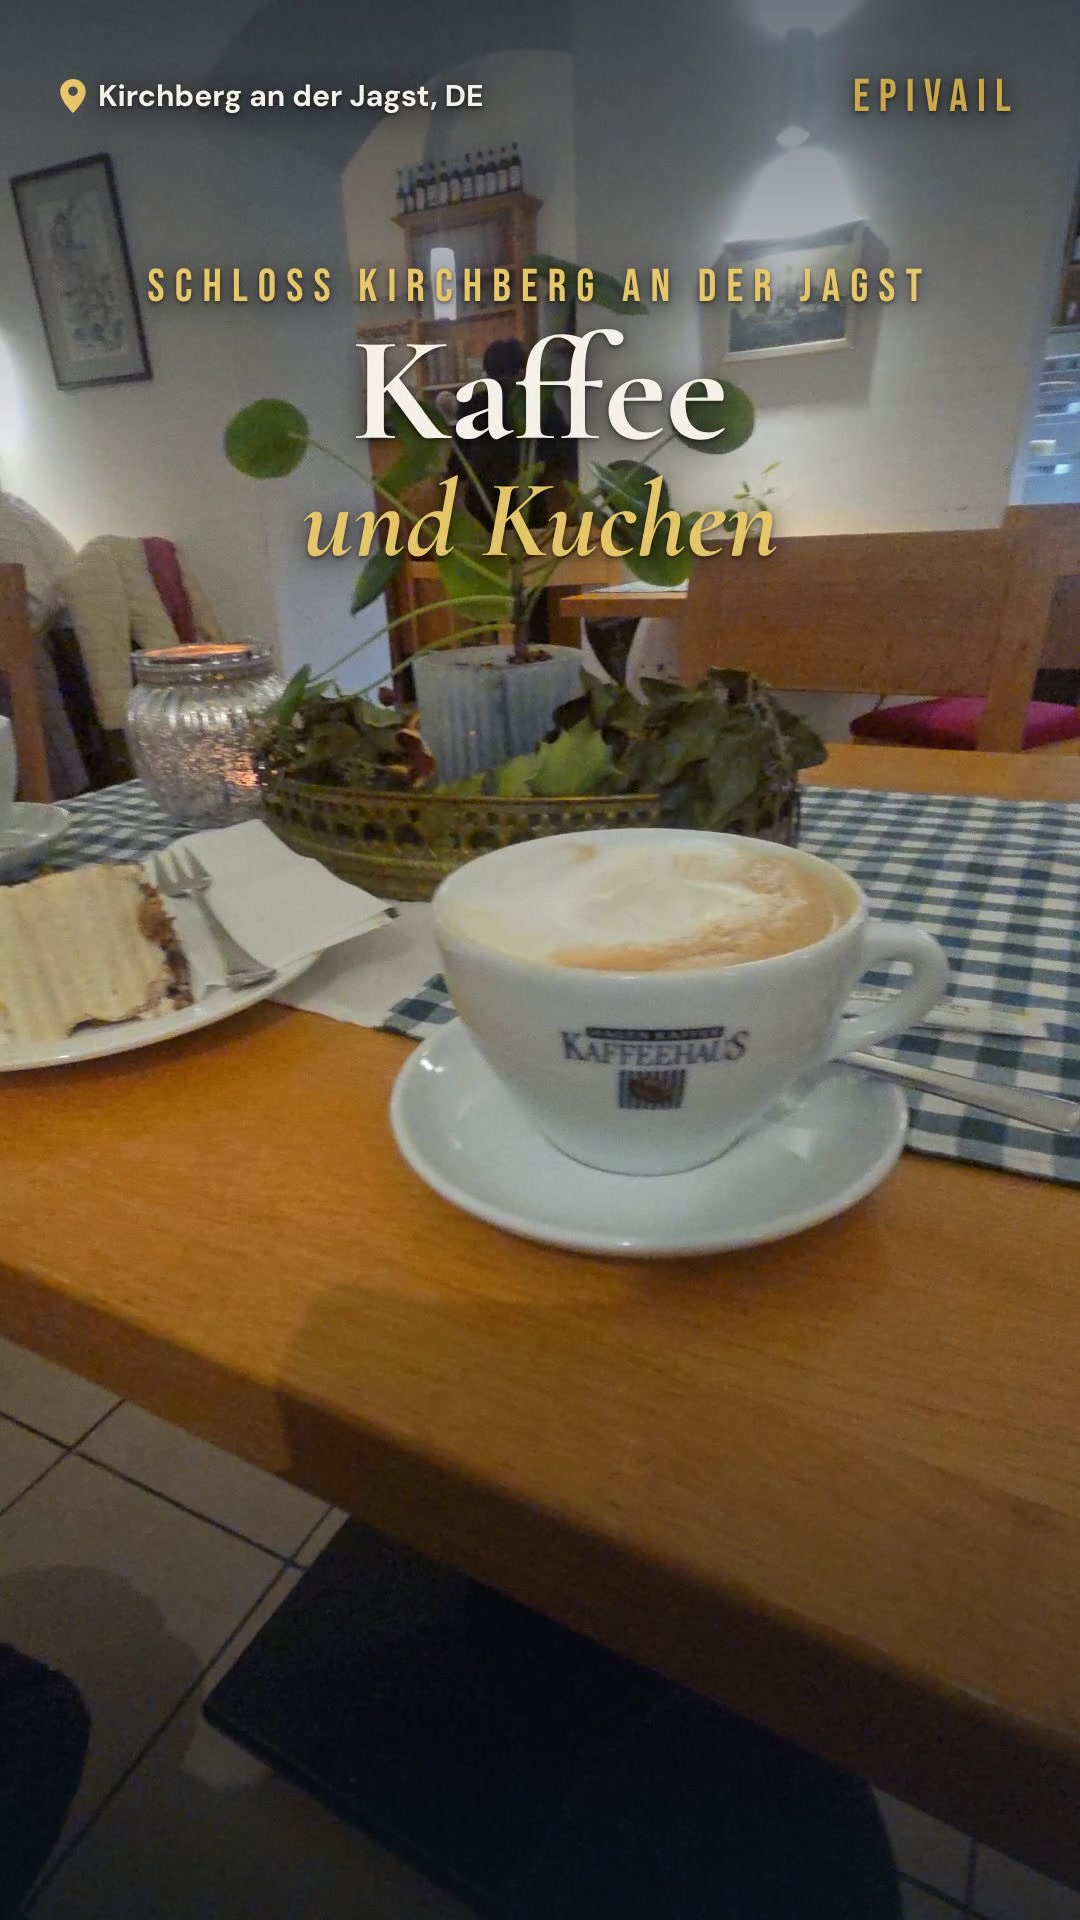
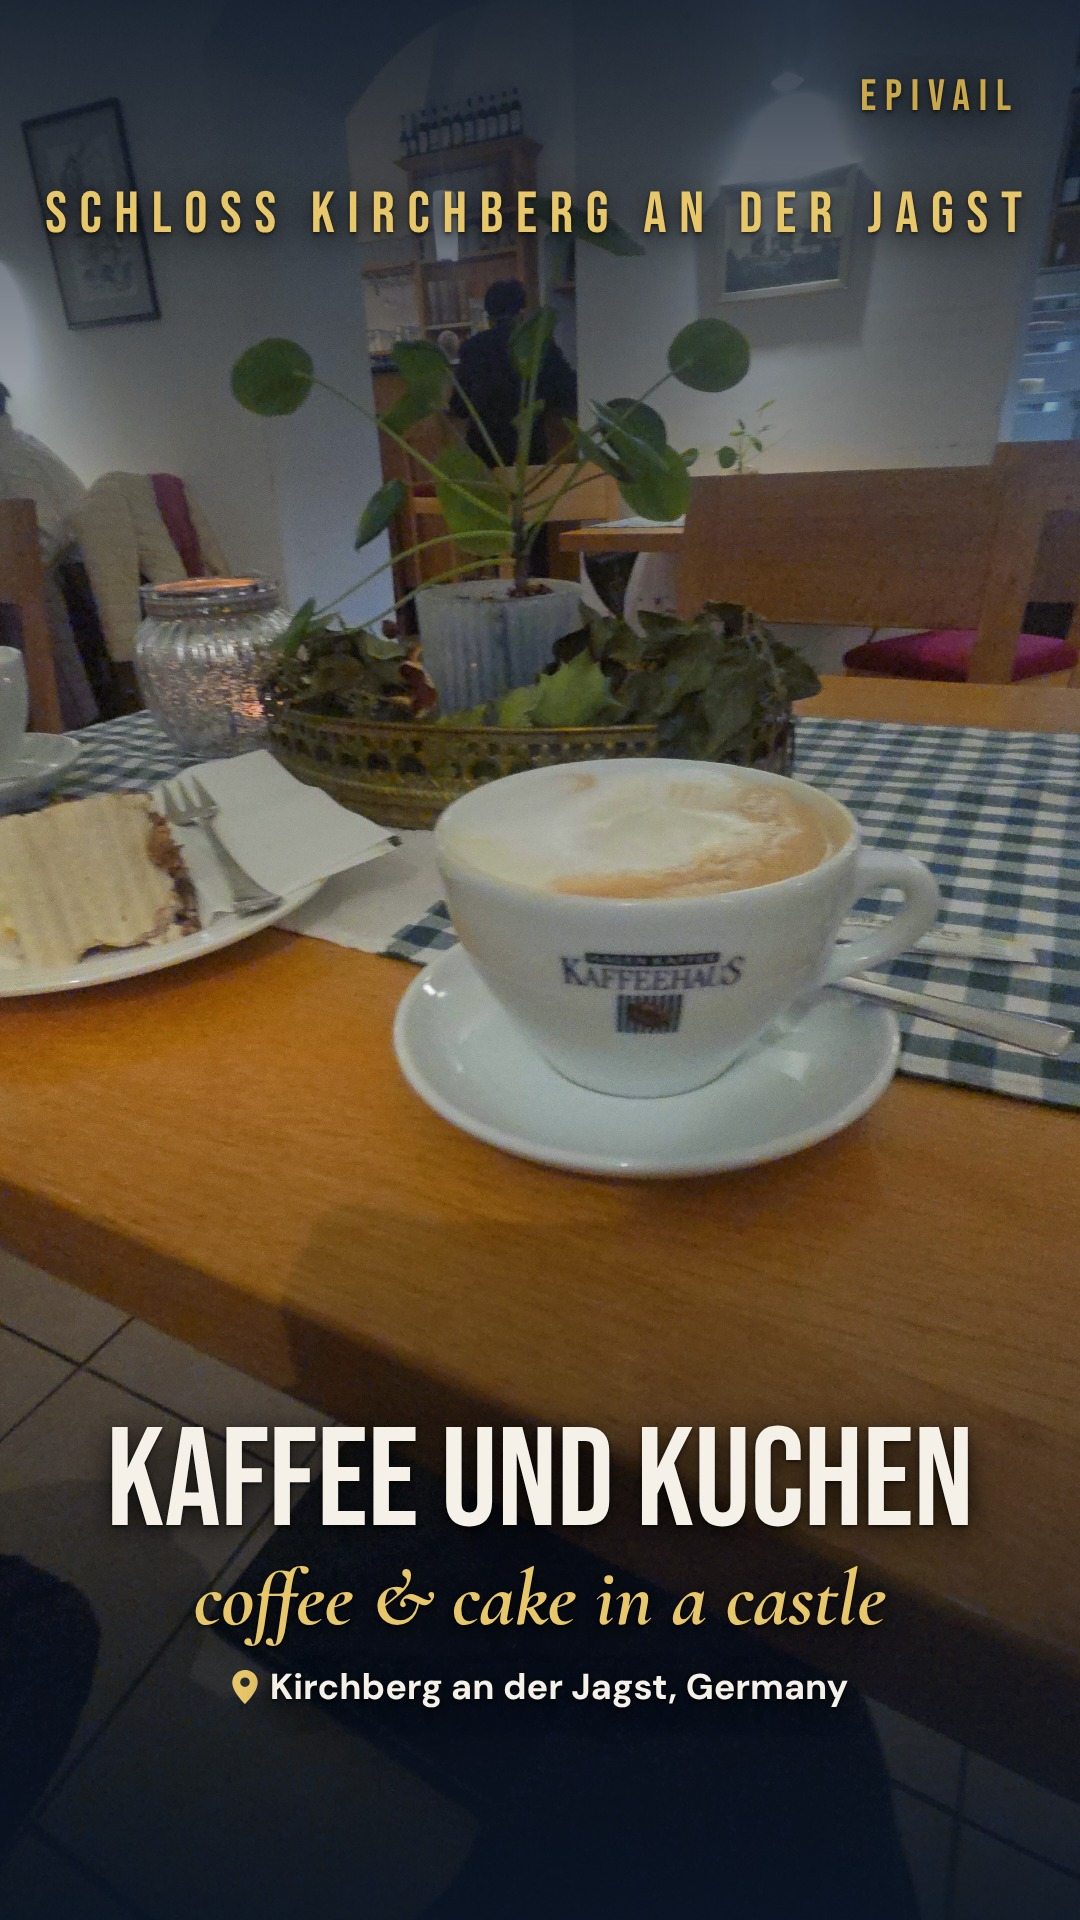
Kaffee und Kuchen: Lofty thumbnails (9:16 and square)
Claude-Session: https://claude.ai/code/session_016C3qjLvrpJC9E8jwkr3Co5

diff --git a/marketing/epivail/reels/kaffee-und-kuchen/Thumbnail.tsx b/marketing/epivail/reels/kaffee-und-kuchen/Thumbnail.tsx
@@ -1,0 +1,30 @@
+import React from 'react';
+import {AbsoluteFill, Composition, Img, registerRoot, staticFile} from 'remotion';
+import {loadFont as loadCormorant} from '@remotion/google-fonts/CormorantGaramond';
+import {loadFont as loadBebas} from '@remotion/google-fonts/BebasNeue';
+import {loadFont as loadDM} from '@remotion/google-fonts/DMSans';
+const displayI = loadCormorant('italic', {weights: ['700'], subsets: ['latin']}).fontFamily;
+const stamp = loadBebas('normal', {weights: ['400'], subsets: ['latin']}).fontFamily;
+const ui = loadDM('normal', {weights: ['700'], subsets: ['latin']}).fontFamily;
+const c = {gold: '#c9a84c', goldBright: '#e8c66a', cream: '#f5f0e8'};
+const sh = '0 6px 30px rgba(0,0,0,0.8), 0 2px 4px rgba(0,0,0,0.6)';
+const Pin = () => <svg width="26" height="34" viewBox="0 0 24 32"><path d="M12 0C5.4 0 0 5.2 0 11.7 0 20.5 12 32 12 32s12-11.5 12-20.3C24 5.2 18.6 0 12 0zm0 16a4.5 4.5 0 110-9 4.5 4.5 0 010 9z" fill={c.goldBright} /></svg>;
+const Thumb: React.FC<{square: boolean}> = ({square}) => (
+  <AbsoluteFill style={{background: '#0a1628'}}>
+    <Img src={staticFile('kaffee.jpg')} style={{width: '100%', height: '100%', objectFit: 'cover', objectPosition: square ? '55% 48%' : '50% 45%'}} />
+    <AbsoluteFill style={{background: 'linear-gradient(180deg, rgba(10,22,40,0.85) 0%, rgba(10,22,40,0.2) 30%, rgba(10,22,40,0) 55%, rgba(10,22,40,0.88) 100%)'}} />
+    <div style={{position: 'absolute', top: square ? 40 : 70, right: square ? 44 : 60, fontFamily: stamp, fontSize: 44, letterSpacing: '0.2em', color: c.gold, textShadow: sh}}>EPIVAIL</div>
+    <div style={{position: 'absolute', top: square ? 110 : 180, width: '100%', textAlign: 'center'}}>
+      <div style={{fontFamily: stamp, fontSize: square ? 42 : 58, letterSpacing: '0.22em', color: c.goldBright, textShadow: sh}}>SCHLOSS KIRCHBERG AN DER JAGST</div>
+    </div>
+    <div style={{position: 'absolute', bottom: square ? 60 : 210, width: '100%', textAlign: 'center'}}>
+      <div style={{fontFamily: stamp, fontSize: square ? 116 : 140, lineHeight: 0.95, color: c.cream, textShadow: sh}}>KAFFEE UND KUCHEN</div>
+      <div style={{fontFamily: displayI, fontStyle: 'italic', fontSize: square ? 64 : 80, color: c.goldBright, textShadow: sh}}>coffee & cake in a castle</div>
+      <div style={{display: 'inline-flex', alignItems: 'center', gap: 12, marginTop: 16, fontFamily: ui, fontSize: square ? 30 : 36, color: c.cream, textShadow: sh}}><Pin />Kirchberg an der Jagst, Germany</div>
+    </div>
+  </AbsoluteFill>
+);
+registerRoot(() => (<>
+  <Composition id="ThumbTall" component={Thumb} defaultProps={{square: false}} durationInFrames={1} fps={30} width={1080} height={1920} />
+  <Composition id="ThumbSquare" component={Thumb} defaultProps={{square: true}} durationInFrames={1} fps={30} width={1080} height={1080} />
+</>));
